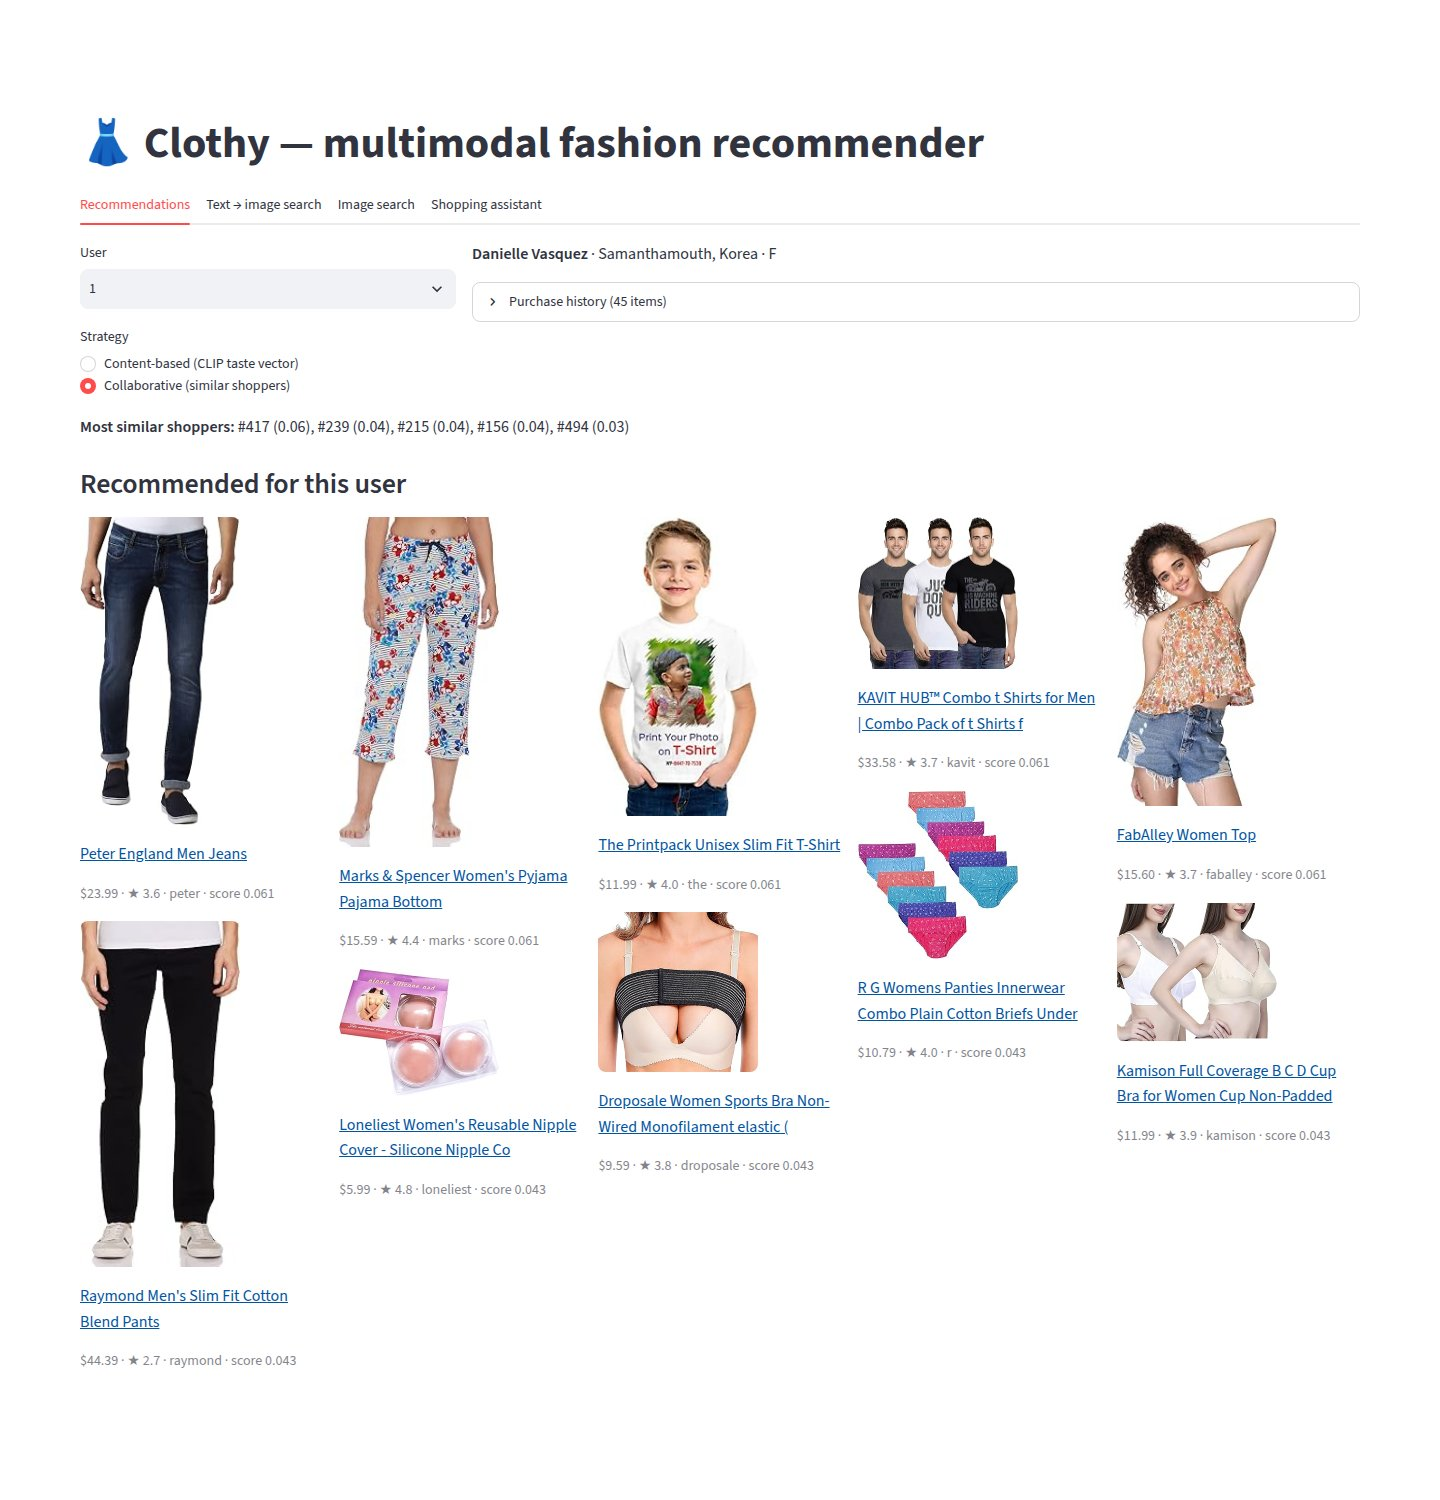
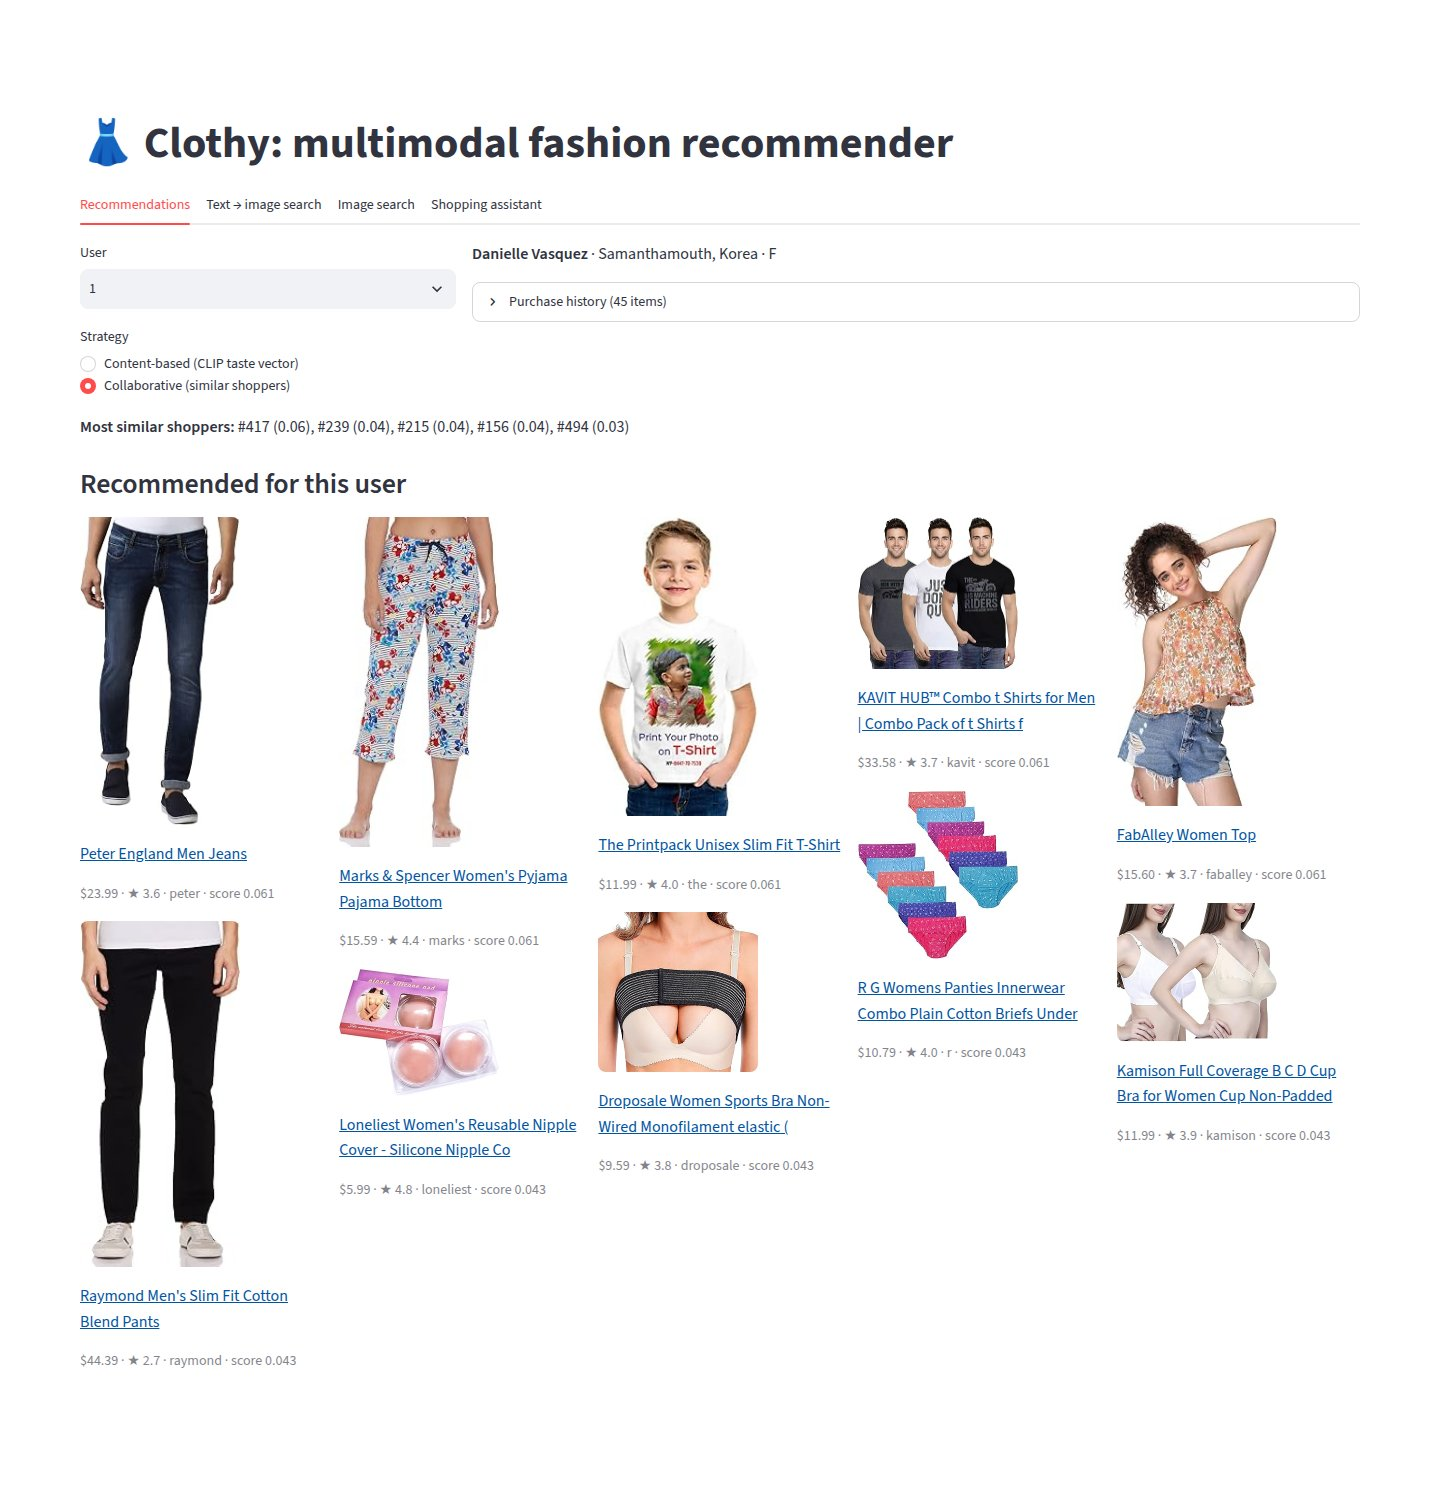
style(ui): drop dash from app title; recapture screenshots

Changed region(s): [[0.1875, 0.0613, 0.6875, 0.1227]]

diff --git a/src/clothes_recommender/ui.py b/src/clothes_recommender/ui.py
@@ -1,4 +1,4 @@
-"""Streamlit demo UI — a thin client over the HTTP API.
+"""Streamlit demo UI: a thin client over the HTTP API.
 
 Run with: uv run streamlit run src/clothes_recommender/ui.py
 """
@@ -134,7 +134,7 @@ def chat_tab() -> None:
 
 def main() -> None:
     st.set_page_config(page_title="Clothy · Fashion Recommender", page_icon="👗", layout="wide")
-    st.title("👗 Clothy — multimodal fashion recommender")
+    st.title("👗 Clothy: multimodal fashion recommender")
     tabs = st.tabs(["Recommendations", "Text → image search", "Image search", "Shopping assistant"])
     for tab, render in zip(
         tabs, [recommendations_tab, text_search_tab, image_search_tab, chat_tab], strict=True
